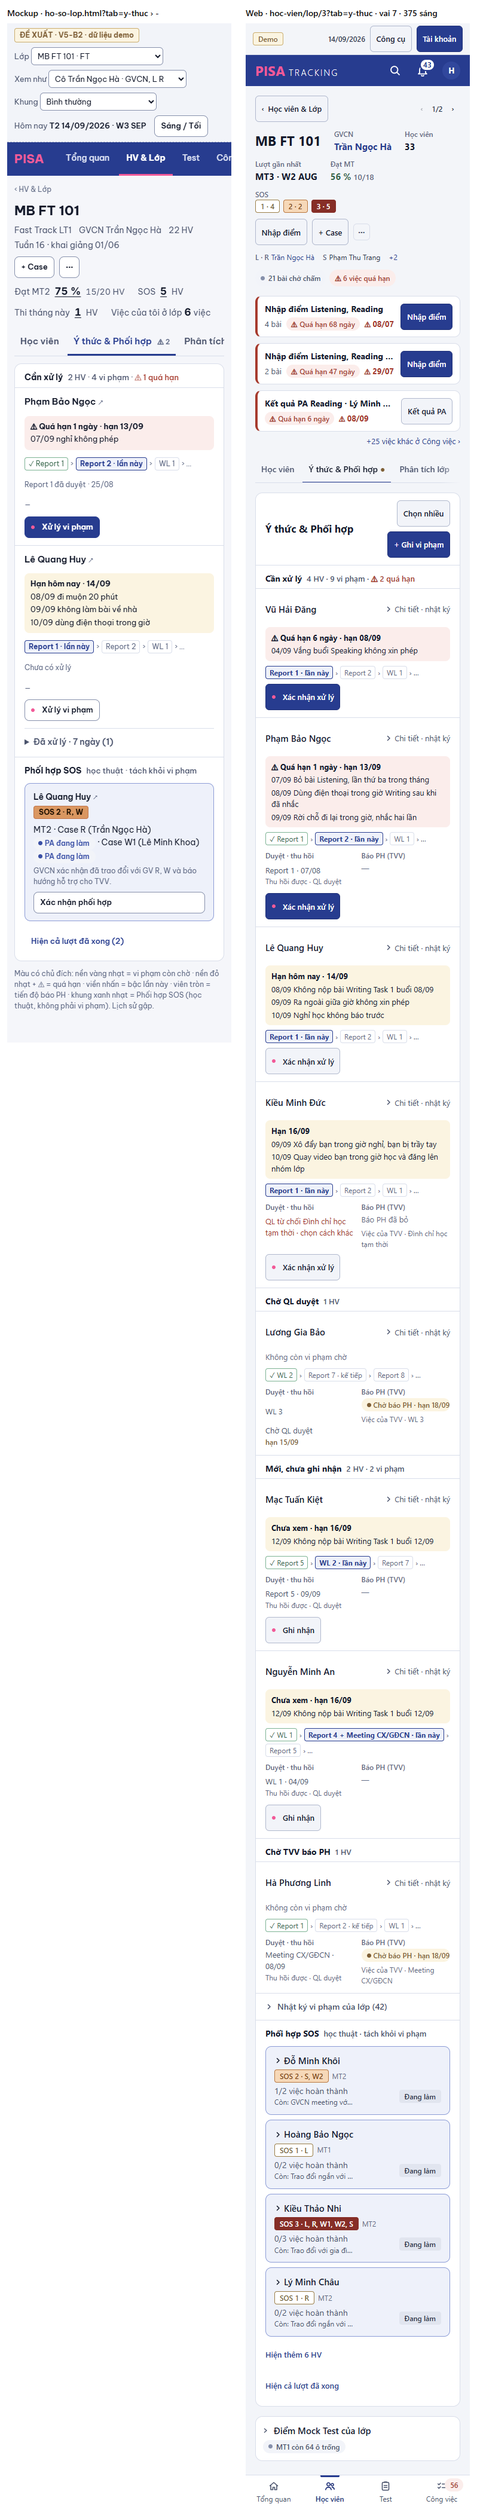
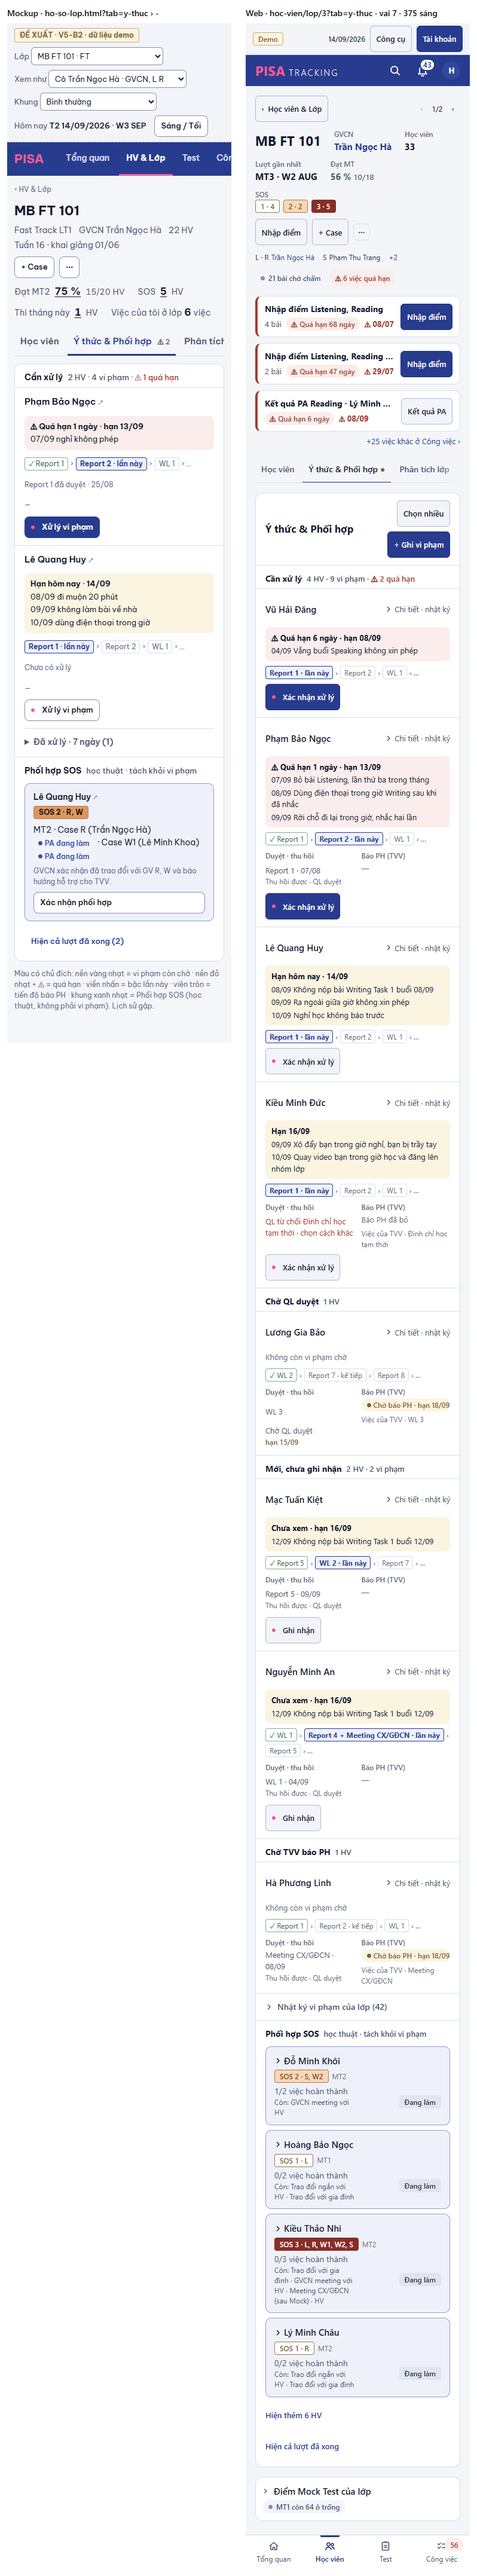
UI-Y-THUC-LOP: critique vòng cuối (36/40) — dòng Còn không cắt ở 375, Đang lưu… khi Ghi nhận; khop-khac K9 (D4) / K14 (đo màu), ảnh cặp mới

Changed region(s): [[0.5414, 0.0, 0.9624, 0.996], [0.0301, 0.0, 0.4511, 0.4046], [0.782, 0.0, 0.9624, 0.0622]]

diff --git a/web/src/modules/yThuc/ClassYThucCard.tsx b/web/src/modules/yThuc/ClassYThucCard.tsx
@@ -348,7 +348,7 @@ function HangEm({ x, nhom, homNay, canManage, chonN, mo, onMo, onPanel, dangGhi,
     ? <button type="button" className={quaHan ? 'btn btn-sm btn-primary min-h-[44px] sm:min-h-0' : 'btn btn-sm min-h-[44px] sm:min-h-0'} onClick={() => onPanel({ loai: 'xu-ly', studentId: x.studentId })}>{CUA_TOI}{t('Xác nhận xử lý')}</button>
     : canManage && nhom === 'moi' && x.viPhamCho.length > 0
       ? <button type="button" className="btn btn-sm min-h-[44px] sm:min-h-0" disabled={dangGhi} title={t('Đã xem, không cần xử lý')} onClick={() => onGhiNhan(x.viPhamCho.filter((v) => v.trangThai === 'moi').map((v) => v.id))}>
-          {CUA_TOI}{x.viPhamCho.length > 1 ? t('Ghi nhận {n} vi phạm', { n: x.viPhamCho.length }) : t('Ghi nhận')}
+          {CUA_TOI}{dangGhi ? t('Đang lưu…') : x.viPhamCho.length > 1 ? t('Ghi nhận {n} vi phạm', { n: x.viPhamCho.length }) : t('Ghi nhận')}
         </button>
       : canManage && x.deXuat?.status === 'da_duyet'
         ? <button type="button" className="btn btn-sm btn-primary min-h-[44px] sm:min-h-0" onClick={() => onPanel({ loai: 'da-thuc-hien', id: x.deXuat!.id })}>{CUA_TOI}{t('Đã thực hiện…')}</button>

diff --git a/web/src/modules/yThuc/PhoiHopSosSection.tsx b/web/src/modules/yThuc/PhoiHopSosSection.tsx
@@ -129,7 +129,8 @@ export function TheSos({ t: luot, cot1 = 'luot', onGoAcademic, onChanged, gon = 
           ) : gon ? (
             /* Việc còn mở ngay trên đầu thẻ — không phải mở thẻ mới biết còn gì. */
             luot.actions.some((a) => a.status === 'pending')
-              ? <span className="block truncate text-xs text-dim">{t('Còn: {viec}', { viec: luot.actions.filter((a) => a.status === 'pending').map((a) => dich(a.name)).join(' · ') })}</span> : null
+              ? (() => { const con = t('Còn: {viec}', { viec: luot.actions.filter((a) => a.status === 'pending').map((a) => dich(a.name)).join(' · ') });
+                return <span className="block line-clamp-2 text-xs text-dim md:truncate" title={con}>{con}</span>; })() : null
           ) : <span className="block text-xs text-slate-500">{t('Học thuật theo dõi ở bảng kỹ năng')}</span>}
         </div>
         <div className="justify-self-end">

diff --git a/docs/anh/ui-y-thuc-lop/khop-khac.md b/docs/anh/ui-y-thuc-lop/khop-khac.md
@@ -20,12 +20,12 @@ Vai: cô Trần Ngọc Hà (GVCN, id 7) · QL (id 2) cho Báo PH · lớp MB FT 
 | K6 | Bậc xử lý: cửa sổ 3 bậc — bậc đã qua "✓" xanh viền xanh · bậc lần này viền nhấn nền nhấn đậm · bậc sau viền mờ · "› …" → `ThangNho` | KHỚP |
 | K7 | Duyệt · thu hồi: chữ thường mờ ("Report 1 · 07/08", "Chưa có xử lý") + dòng phụ "Thu hồi được · QL duyệt" (khung CP 110) → `DuyetThuHoi` | KHỚP (chữ bấm được → xem lần xử lý, nơi có Thu hồi) |
 | K8 | Báo PH: "—" khi chưa có; viên tròn nền vàng nhạt "Chờ báo PH · hạn dd/mm" + dòng phụ "Việc của TVV · …" → `BaoPh` | KHỚP — chấm tròn thay "⚠" trên viên CHỜ (luật V5: ⚠ chỉ nghĩa quá hạn); viên quá hạn có ⚠ nền đỏ |
-| K9 | Một nút việc mỗi hàng, cột cuối, chấm hồng "việc của tôi"; hàng quá hạn nút chính | KHỚP — nhãn "Xác nhận xử lý" (tên V4, cùng tên thanh Chọn nhiều + thang; một khái niệm một tên) thay "Xử lý vi phạm" |
+| K9 | Một nút việc mỗi hàng, cột cuối, chấm hồng "việc của tôi"; hàng quá hạn nút chính | KHỚP — nhãn "Xác nhận xử lý" (tên V4, cùng tên thanh Chọn nhiều + thang; một khái niệm một tên) thay "Xử lý vi phạm" Hàng quá hạn: `btn-primary` (đã kiểm computed style). Ở TỐI nút chính là nền xanh thẫm + viền, không tô kín màu nhấn — theo D4 MAU-WEB (chủ SP 27/10, DESIGN.md mục Colors, mới hơn mockup V5 vẽ nút tô kín); ở SÁNG tô kín như mockup. |
 | K10 | "▸ Đã xử lý · 7 ngày (n)" gập | KHỚP |
 | K11 | Nhóm "Chờ TVV báo PH" (khung CP 110: em không còn vi phạm chờ, việc Báo PH mở) | KHỚP |
-| K12 | Lịch sử em gập (khung CP 110 "Lịch sử Ngô Hải Yến") → "› Chi tiết · nhật ký" mở dưới hàng (thang đủ + vi phạm + lần xử lý + câu M6) | KHỚP |
+| K12 | Lịch sử em gập (khung CP 110 "Lịch sử Ngô Hải Yến") → "Chi tiết" (375: "Chi tiết · nhật ký") mở dưới hàng (thang đủ + vi phạm + lần xử lý + câu M6) | KHỚP |
 | K13 | Hàng đang mở: nền `dang-mo` + vạch nhấn trái 3 px | KHỚP |
-| K14 | Phối hợp SOS: tiêu đề "Phối hợp SOS · học thuật · tách khỏi vi phạm", mỗi em một khung xanh nhạt viền xanh, bo 10 px; "Hiện cả lượt đã xong" nút mờ | KHỚP |
+| K14 | Phối hợp SOS: tiêu đề "Phối hợp SOS · học thuật · tách khỏi vi phạm", mỗi em một khung xanh nhạt viền xanh, bo 10 px, chữ 14 px, tên 15 px, chip "SOS 2 · R, W"; chân là link | KHỚP — đo computed style: nền / viền lệch ≤ 6 RGB (token web `doing-bg` / `doing-line` = `dang-nen` / `dang-vien` V5) |
 | K15 | Nội dung khung Phối hợp: mockup một dòng "MT2 · Case R (GV) PA đang làm" + nút "Xác nhận phối hợp" | KHÁC [XM] — web giữ thẻ lượt V4 (tên · MT · SOS · kỹ năng · "n/m việc hoàn thành" · Đang làm), bấm mở danh sách việc phối hợp và Xác nhận / Bỏ từng việc (thao tác V4; mockup gộp một nút không có trong luật Phối hợp) |
 | K16 | 375: hàng xếp dọc (tên + "Chi tiết" cùng dòng · khối vi phạm · thang · Duyệt | Báo PH hai cột · nút việc đủ rộng) | KHỚP |
 | K17 | Tab "Ý thức & Phối hợp ⚠ 2" ở hàng tab hồ sơ lớp | KHÁC [XM] — GIỮ chấm "●" hiện có: số đó đếm em CẦN xử lý (không phải quá hạn), "⚠" sai nghĩa theo luật V5; hàng tab thuộc `ClassOverviewPage` (session hồ sơ lớp khác đang sửa) |
